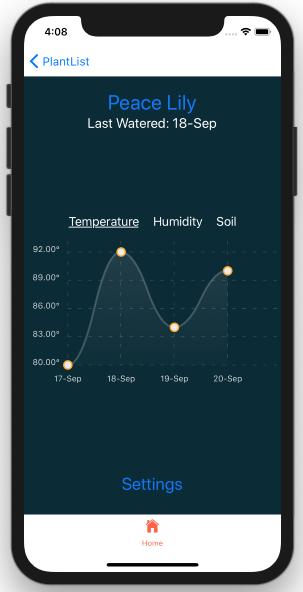
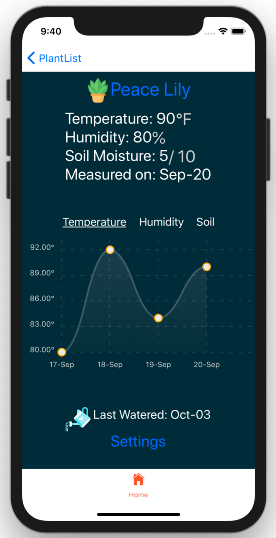
Update simulator screenshot

diff --git a/ReactApp/screens/Home/Plant.js b/ReactApp/screens/Home/Plant.js
@@ -22,14 +22,14 @@ const Plant = ({navigation, plant}) => {
     const lastWateredDate = plant.water_datetimes
         ? moment(
               plant.water_datetimes[plant.water_datetimes.length - 1],
-          ).format('DD-MMM')
+          ).format('MMM-DD')
         : '';
 
     const lastSensorReadings =
         plant.sensor_readings[plant.sensor_readings.length - 1];
 
     const lastSensorDate = lastSensorReadings.datetime
-        ? moment(lastSensorReadings.datetime).format('DD-MMM')
+        ? moment(lastSensorReadings.datetime).format('MMM-DD')
         : '';
 
     console.log(lastSensorReadings);
